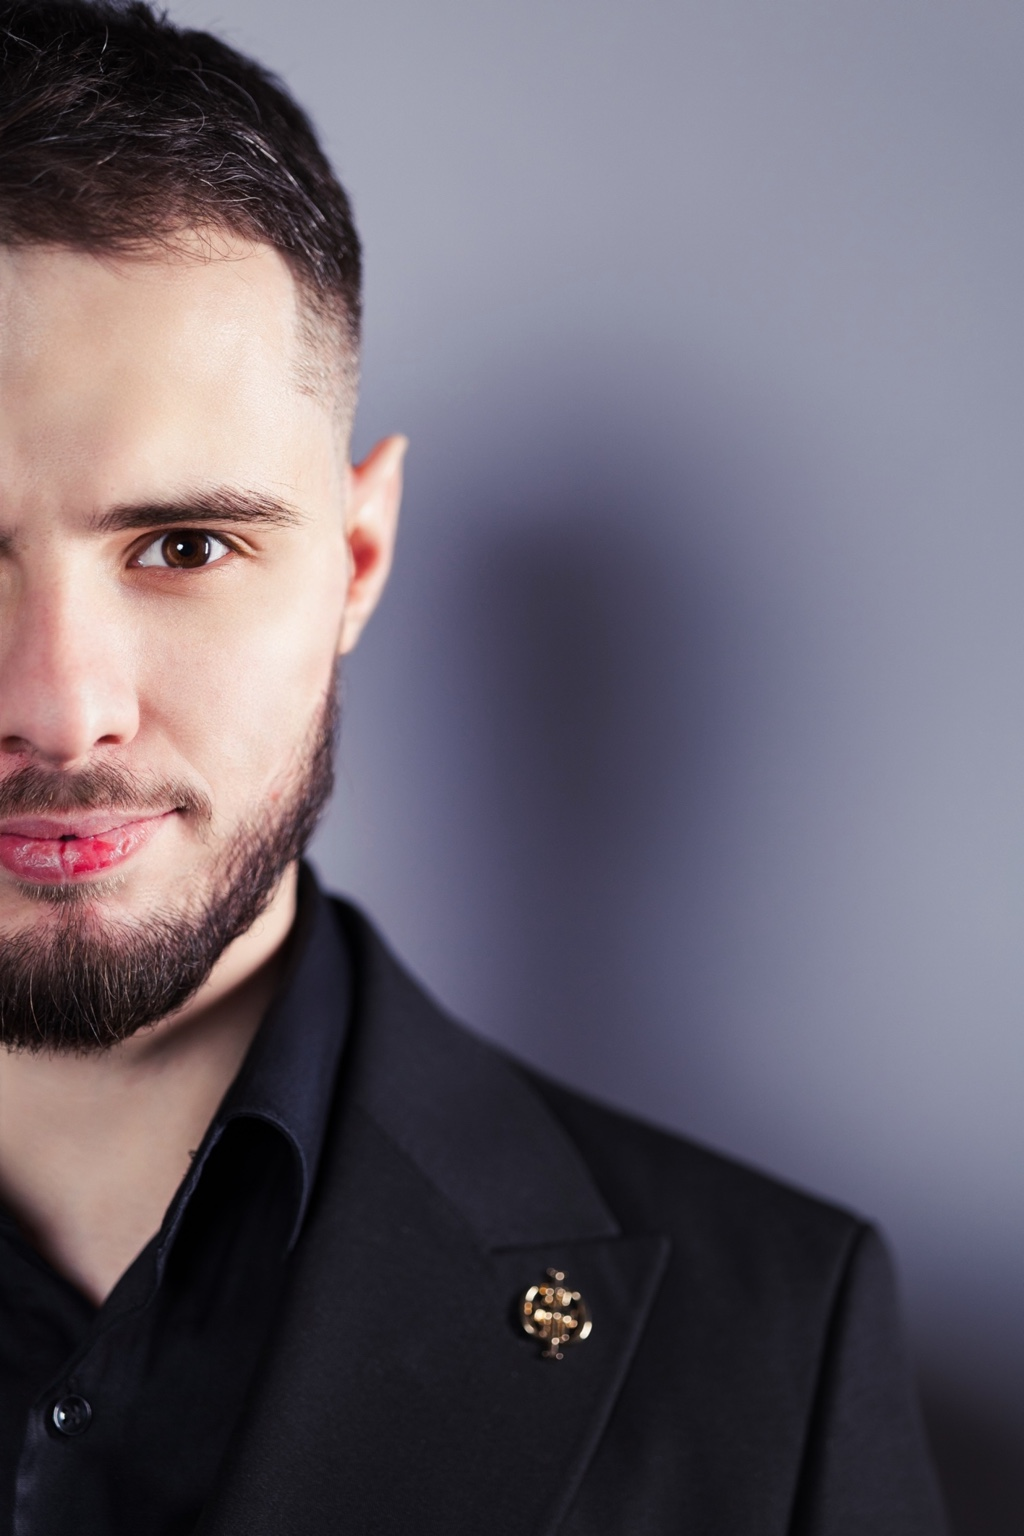
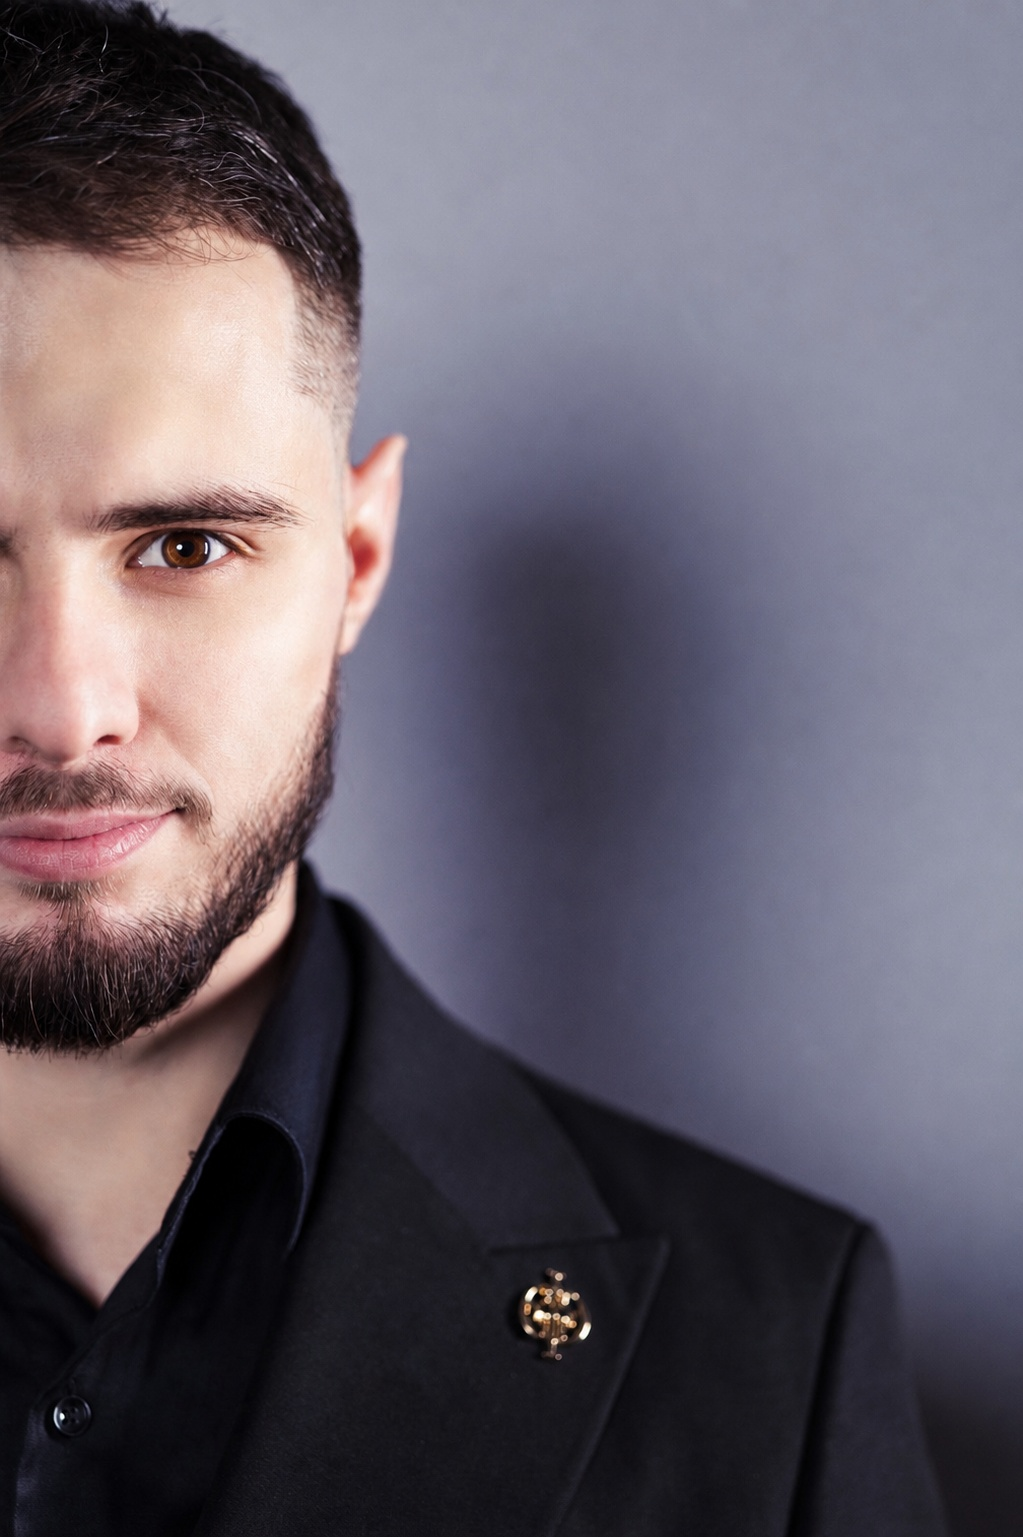
Add files via upload

diff --git a/index.html b/index.html
@@ -17,7 +17,7 @@
       <a href="#music" data-ru="МУЗЫКА" data-en="MUSIC">МУЗЫКА</a>
       <a href="#about" data-ru="ОБ АРТИСТЕ" data-en="ABOUT">ОБ АРТИСТЕ</a>
       <a href="#contact" data-ru="КОНТАКТ" data-en="CONTACT">КОНТАКТ</a>
-      <a href="https://www.instagram.com/nurlan_dzhamaldinov/" target="_blank" rel="noopener">INSTAGRAM</a>
+      <a href="#events" data-ru="АФИША" data-en="EVENTS">АФИША</a>
     </nav>
     <button class="lang" id="langToggle" aria-label="Switch language">RU / EN</button>
     <button class="mobile-menu" id="mobileMenuBtn" aria-label="Open menu">MENU</button>
@@ -25,7 +25,7 @@
       <a href="#music" data-ru="МУЗЫКА" data-en="MUSIC">МУЗЫКА</a>
       <a href="#about" data-ru="ОБ АРТИСТЕ" data-en="ABOUT">ОБ АРТИСТЕ</a>
       <a href="#contact" data-ru="КОНТАКТ" data-en="CONTACT">КОНТАКТ</a>
-      <a href="https://www.instagram.com/nurlan_dzhamaldinov/" target="_blank" rel="noopener">INSTAGRAM</a>
+      <a href="#events" data-ru="АФИША" data-en="EVENTS">АФИША</a>
     </div>
   </header>
 
@@ -128,10 +128,38 @@
      data-en="ALL RELEASES ON YANDEX MUSIC ↗">ВСЕ РЕЛИЗЫ В ЯНДЕКС МУЗЫКЕ ↗</a>
 </section>
 
-    <section class="section split" id="about">
+    
+    <section class="section events-section" id="events">
+      <div class="section-head">
+        <span class="kicker">02</span>
+        <h2 data-ru="Афиша" data-en="Events">Афиша</h2>
+      </div>
+      <div class="events-grid">
+        <article class="event-card">
+          <img src="assets/event-2026-08-28-tyrnyauz.png" alt="НУРЛАН — Тырныауз, 28 августа" loading="lazy">
+          <div class="event-info">
+            <div class="event-date" data-ru="28 АВГУСТА" data-en="28 AUGUST">28 АВГУСТА</div>
+            <h3 data-ru="Тырныауз" data-en="Tyrnyauz">Тырныауз</h3>
+            <p data-ru="Дворец культуры им. К. Кулиева" data-en="K. Kuliev Palace of Culture">Дворец культуры им. К. Кулиева</p>
+            <span class="event-time" data-ru="Начало · 19:00" data-en="Starts · 19:00">Начало · 19:00</span>
+          </div>
+        </article>
+        <article class="event-card">
+          <img src="assets/event-2026-09-05-kashkhatau.jpg" alt="НУРЛАН — Кашхатау, 5 сентября" loading="lazy">
+          <div class="event-info">
+            <div class="event-date" data-ru="5 СЕНТЯБРЯ" data-en="5 SEPTEMBER">5 СЕНТЯБРЯ</div>
+            <h3 data-ru="Кашхатау" data-en="Kashkhatau">Кашхатау</h3>
+            <p data-ru="Дом культуры" data-en="House of Culture">Дом культуры</p>
+            <span class="event-time" data-ru="Начало · 19:00" data-en="Starts · 19:00">Начало · 19:00</span>
+          </div>
+        </article>
+      </div>
+    </section>
+
+<section class="section split" id="about">
       <div class="portrait portrait-dark"></div>
       <div class="about-copy">
-        <span class="kicker">02</span>
+        <span class="kicker">03</span>
         <h2 data-ru="Об артисте" data-en="About">Об артисте</h2>
         <p data-ru="НУРЛАН — артист из Нальчика, Кабардино-Балкария."
            data-en="NURLAN is an artist from Nalchik, Kabardino-Balkaria.">
@@ -146,7 +174,7 @@
 
     <section class="section gallery">
       <div class="section-head">
-        <span class="kicker">03</span>
+        <span class="kicker">04</span>
         <h2 data-ru="Галерея" data-en="Gallery">Галерея</h2>
       </div>
       <div class="gallery-editorial">
@@ -164,7 +192,7 @@
 
     <section class="section contact" id="contact">
       <div class="section-head">
-        <span class="kicker">04</span>
+        <span class="kicker">05</span>
         <h2 data-ru="Контакты" data-en="Contact">Контакты</h2>
       </div>
       <div class="contact-grid">

diff --git a/styles.css b/styles.css
@@ -511,3 +511,50 @@ body{
 .all-releases{display:inline-block;margin-top:44px;padding-bottom:6px;border-bottom:1px solid var(--line);font-size:11px;letter-spacing:.14em}
 @media(max-width:900px){.releases-grid{grid-template-columns:repeat(2,minmax(0,1fr));gap:28px 10px}.release-info h3{font-size:24px}}
 @media(max-width:520px){.release-info{grid-template-columns:24px 1fr}.release-info h3{font-size:21px}.release-info p{font-size:9px}}
+
+
+/* Events / Афиша */
+.events-section{border-top:1px solid var(--line)}
+.events-empty{
+  display:grid;
+  grid-template-columns:180px 1fr;
+  gap:48px;
+  align-items:start;
+  padding:38px 0 10px;
+  border-top:1px solid var(--line);
+}
+.events-date{
+  font-family:"Cormorant Garamond",serif;
+  font-size:64px;
+  line-height:.9;
+  color:var(--accent);
+  letter-spacing:.04em;
+}
+.events-copy h3{
+  margin:0 0 12px;
+  font-family:"Cormorant Garamond",serif;
+  font-size:42px;
+  font-weight:500;
+}
+.events-copy p{
+  margin:0;
+  max-width:650px;
+  color:var(--muted);
+  line-height:1.7;
+}
+@media(max-width:700px){
+  .events-empty{grid-template-columns:1fr;gap:18px}
+  .events-date{font-size:48px}
+  .events-copy h3{font-size:34px}
+}
+
+/* Event cards */
+.events-grid{display:grid;grid-template-columns:repeat(2,minmax(0,1fr));gap:24px}
+.event-card{overflow:hidden;border:1px solid var(--line);background:rgba(255,255,255,.025)}
+.event-card img{display:block;width:100%;aspect-ratio:4/5;object-fit:cover}
+.event-info{padding:24px}
+.event-info .event-date{font-family:inherit;font-size:13px;font-weight:700;letter-spacing:.16em;color:var(--accent);margin-bottom:14px}
+.event-info h3{font-family:"Cormorant Garamond",serif;font-size:38px;font-weight:500;margin:0 0 6px}
+.event-info p{color:var(--muted);margin:0 0 18px}
+.event-time{font-size:13px;letter-spacing:.08em}
+@media(max-width:700px){.events-grid{grid-template-columns:1fr}.event-info{padding:20px}.event-info h3{font-size:34px}}
